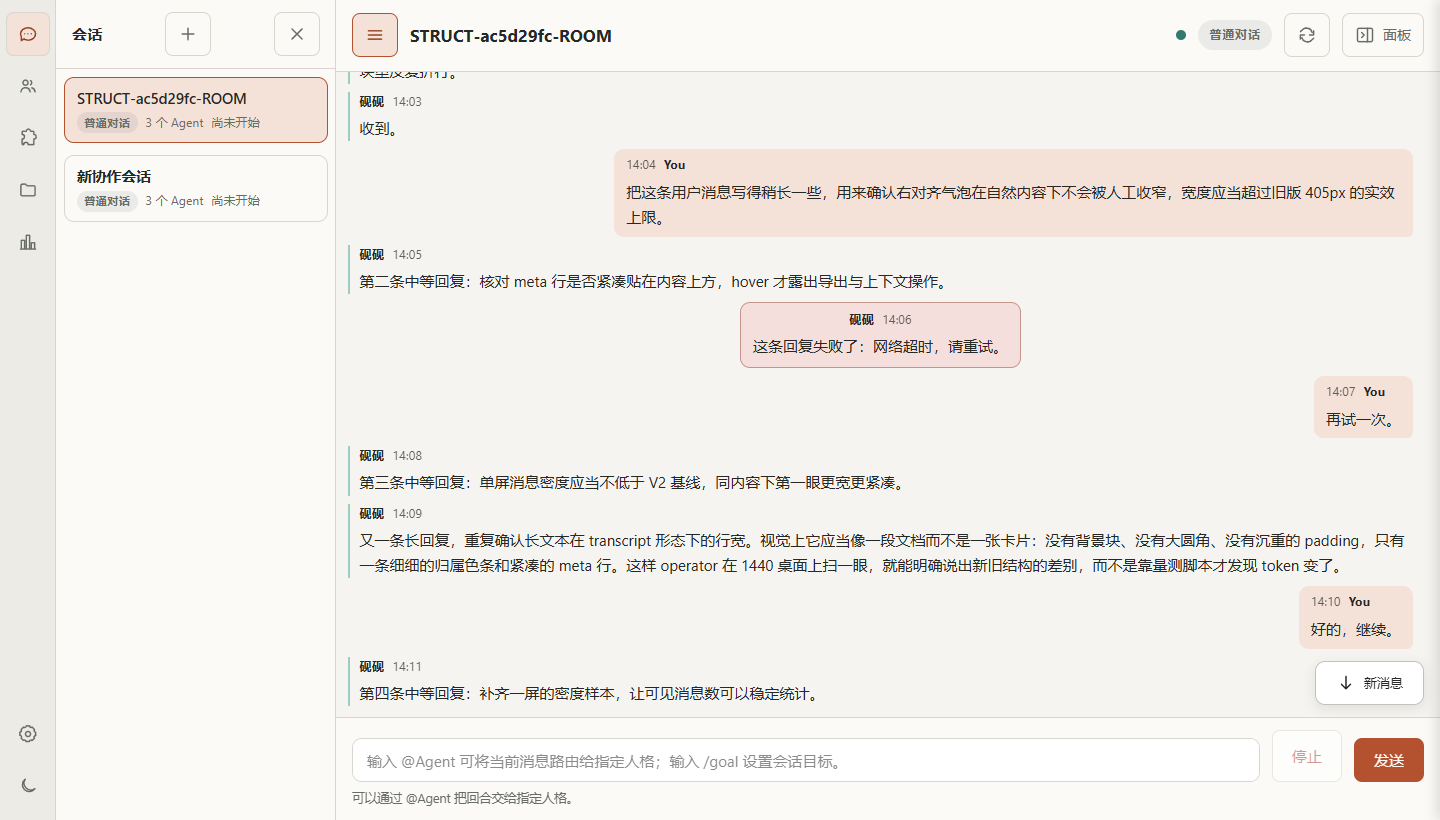
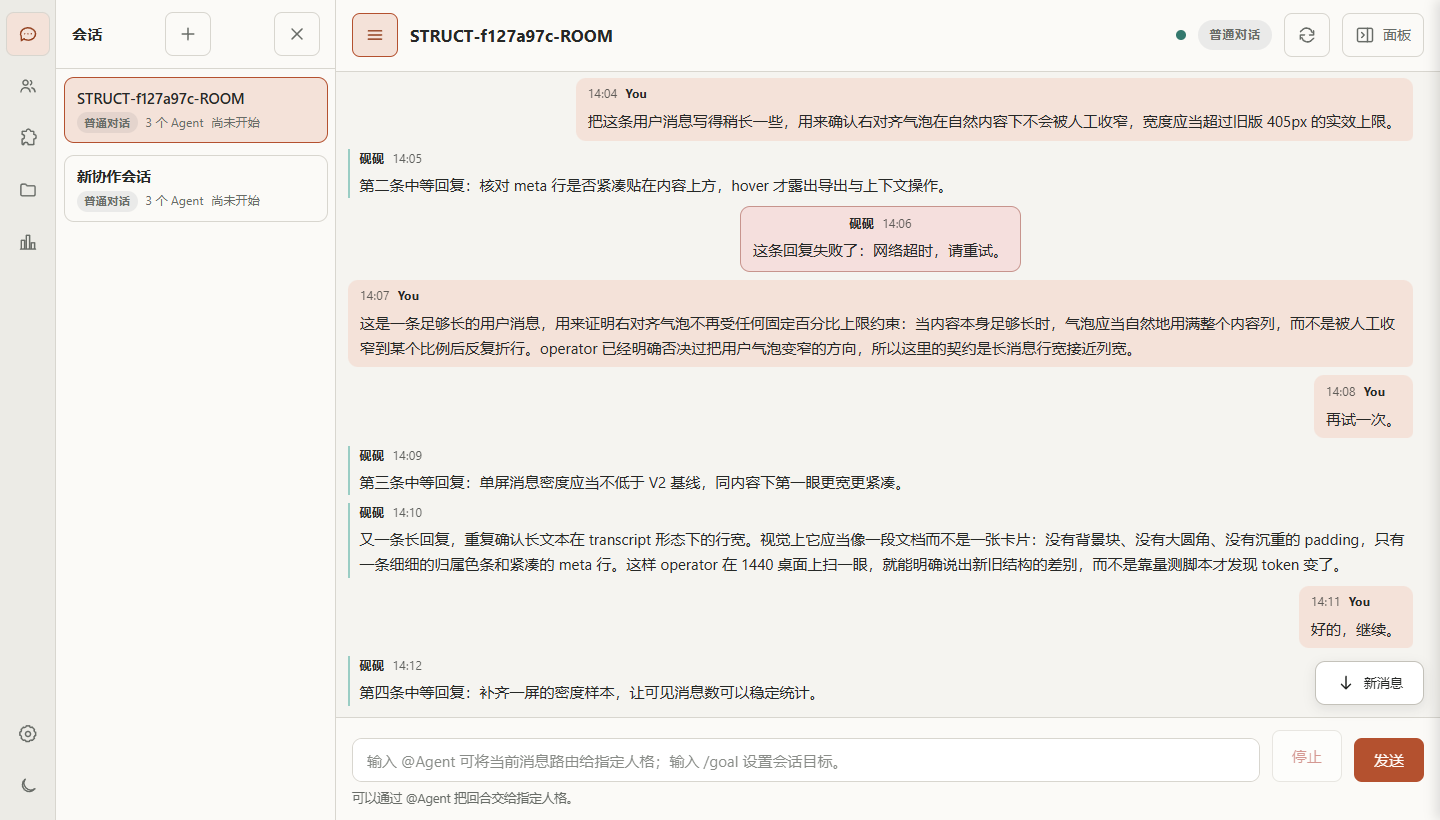
fix(chat-ui): V3 review P1 修复 — 去掉 user 75% 固定上限 + 几何契约接入真实门禁 [烁烁/k3-256k🐾]
Why: 砚砚 review 两个 P1。(1) V3 重新引入了 operator 已明确否决的 user max-width:75%（桌面 837.2→798.8px、移动 336→252px 多绕一行），且测试在反向锁死该设计——删除固定百分比上限，长消息自然用满整列（实测桌面 98.6%/移动 95.7%），测试改为断言不存在 <100% 的百分比上限，证据集补 user 长消息样本。(2) measure-structure.mjs 契约失败仍 exit 0 且未接入门禁——改为任一 ok:false 退出非零，挂入 test:ui（--tag gate 输出落 gitignored .tmp/），before(V2) 实测 5/15 红并非零退出证明是真红灯；文档 16/16 误写修正为 15/15。before/after 证据同条件重生成（修复了 build/public 陈旧导致第一次 before 无效的问题）。test:fast 全绿 exit=0。

diff --git a/tests/ui/chat-experience-m4.test.js b/tests/ui/chat-experience-m4.test.js
@@ -138,17 +138,21 @@ test('M4: assistant/system messages are full-width transcript rows without card 
   assert.doesNotMatch(assistantBlock, /max-width:\s*85%/, 'assistant row must not be capped at 85% (V1 rejection point)');
 });
 
-test('M4: user messages are right-aligned bubbles capped at 75% of the column', () => {
+test('M4: user messages are right-aligned fit-content bubbles without a fixed percentage cap', () => {
   const userBlock = cssBlock('body.chat-app .message-card.user {');
   assert.match(userBlock, /justify-self:\s*end/, 'user bubble must right-align within the message column');
   assert.match(userBlock, /width:\s*fit-content/, 'user bubble keeps natural content width');
-  assert.match(userBlock, /max-width:\s*75%/, 'user bubble caps at 75% of the column (Clowder parity; ~810px at 1080 column)');
+  assert.doesNotMatch(userBlock, /max-width:\s*(?!100%)[0-9]+%/, 'user bubble must not reintroduce a fixed percentage cap (operator rejected the 75% narrowing)');
   assert.match(userBlock, /background:\s*var\(--caff-accent-soft\)/, 'user bubble keeps a light accent fill');
 
   const mobileStart = M4_STYLES.indexOf('@media (max-width: 767px)');
   assert.notEqual(mobileStart, -1, 'mobile media query missing in M4 section');
   const mobileCss = M4_STYLES.slice(mobileStart);
-  assert.doesNotMatch(mobileCss, /max-width:\s*88%/, 'mobile bubbles must not be capped at 88% either');
+  const mobileUserStart = mobileCss.indexOf('.message-card.user');
+  if (mobileUserStart !== -1) {
+    const mobileUserBlock = mobileCss.slice(mobileUserStart, mobileCss.indexOf('}', mobileUserStart));
+    assert.doesNotMatch(mobileUserBlock, /max-width:\s*(?!100%)[0-9]+%/, 'mobile user bubble must not be capped below full column either');
+  }
 });
 
 test('M4: V2 density contract - wide column, compressed gap, tight padding', () => {

diff --git a/public/styles.css b/public/styles.css
@@ -4722,11 +4722,11 @@ body.chat-app .message-card.assistant {
   max-width: 100%;
 }
 
-/* user 右气泡：fit-content 自然宽、轻 accent 底、上限 75% 列宽（1080 列 ≈ 810px） */
+/* user 右气泡：fit-content 自然宽、轻 accent 底、不设固定百分比上限（operator 否决收窄），长消息自然用满整列 */
 body.chat-app .message-card.user {
   justify-self: end;
   width: fit-content;
-  max-width: 75%;
+  max-width: 100%;
   margin-left: 0;
   padding: 0.4rem 0.75rem;
   gap: 0.3rem;
